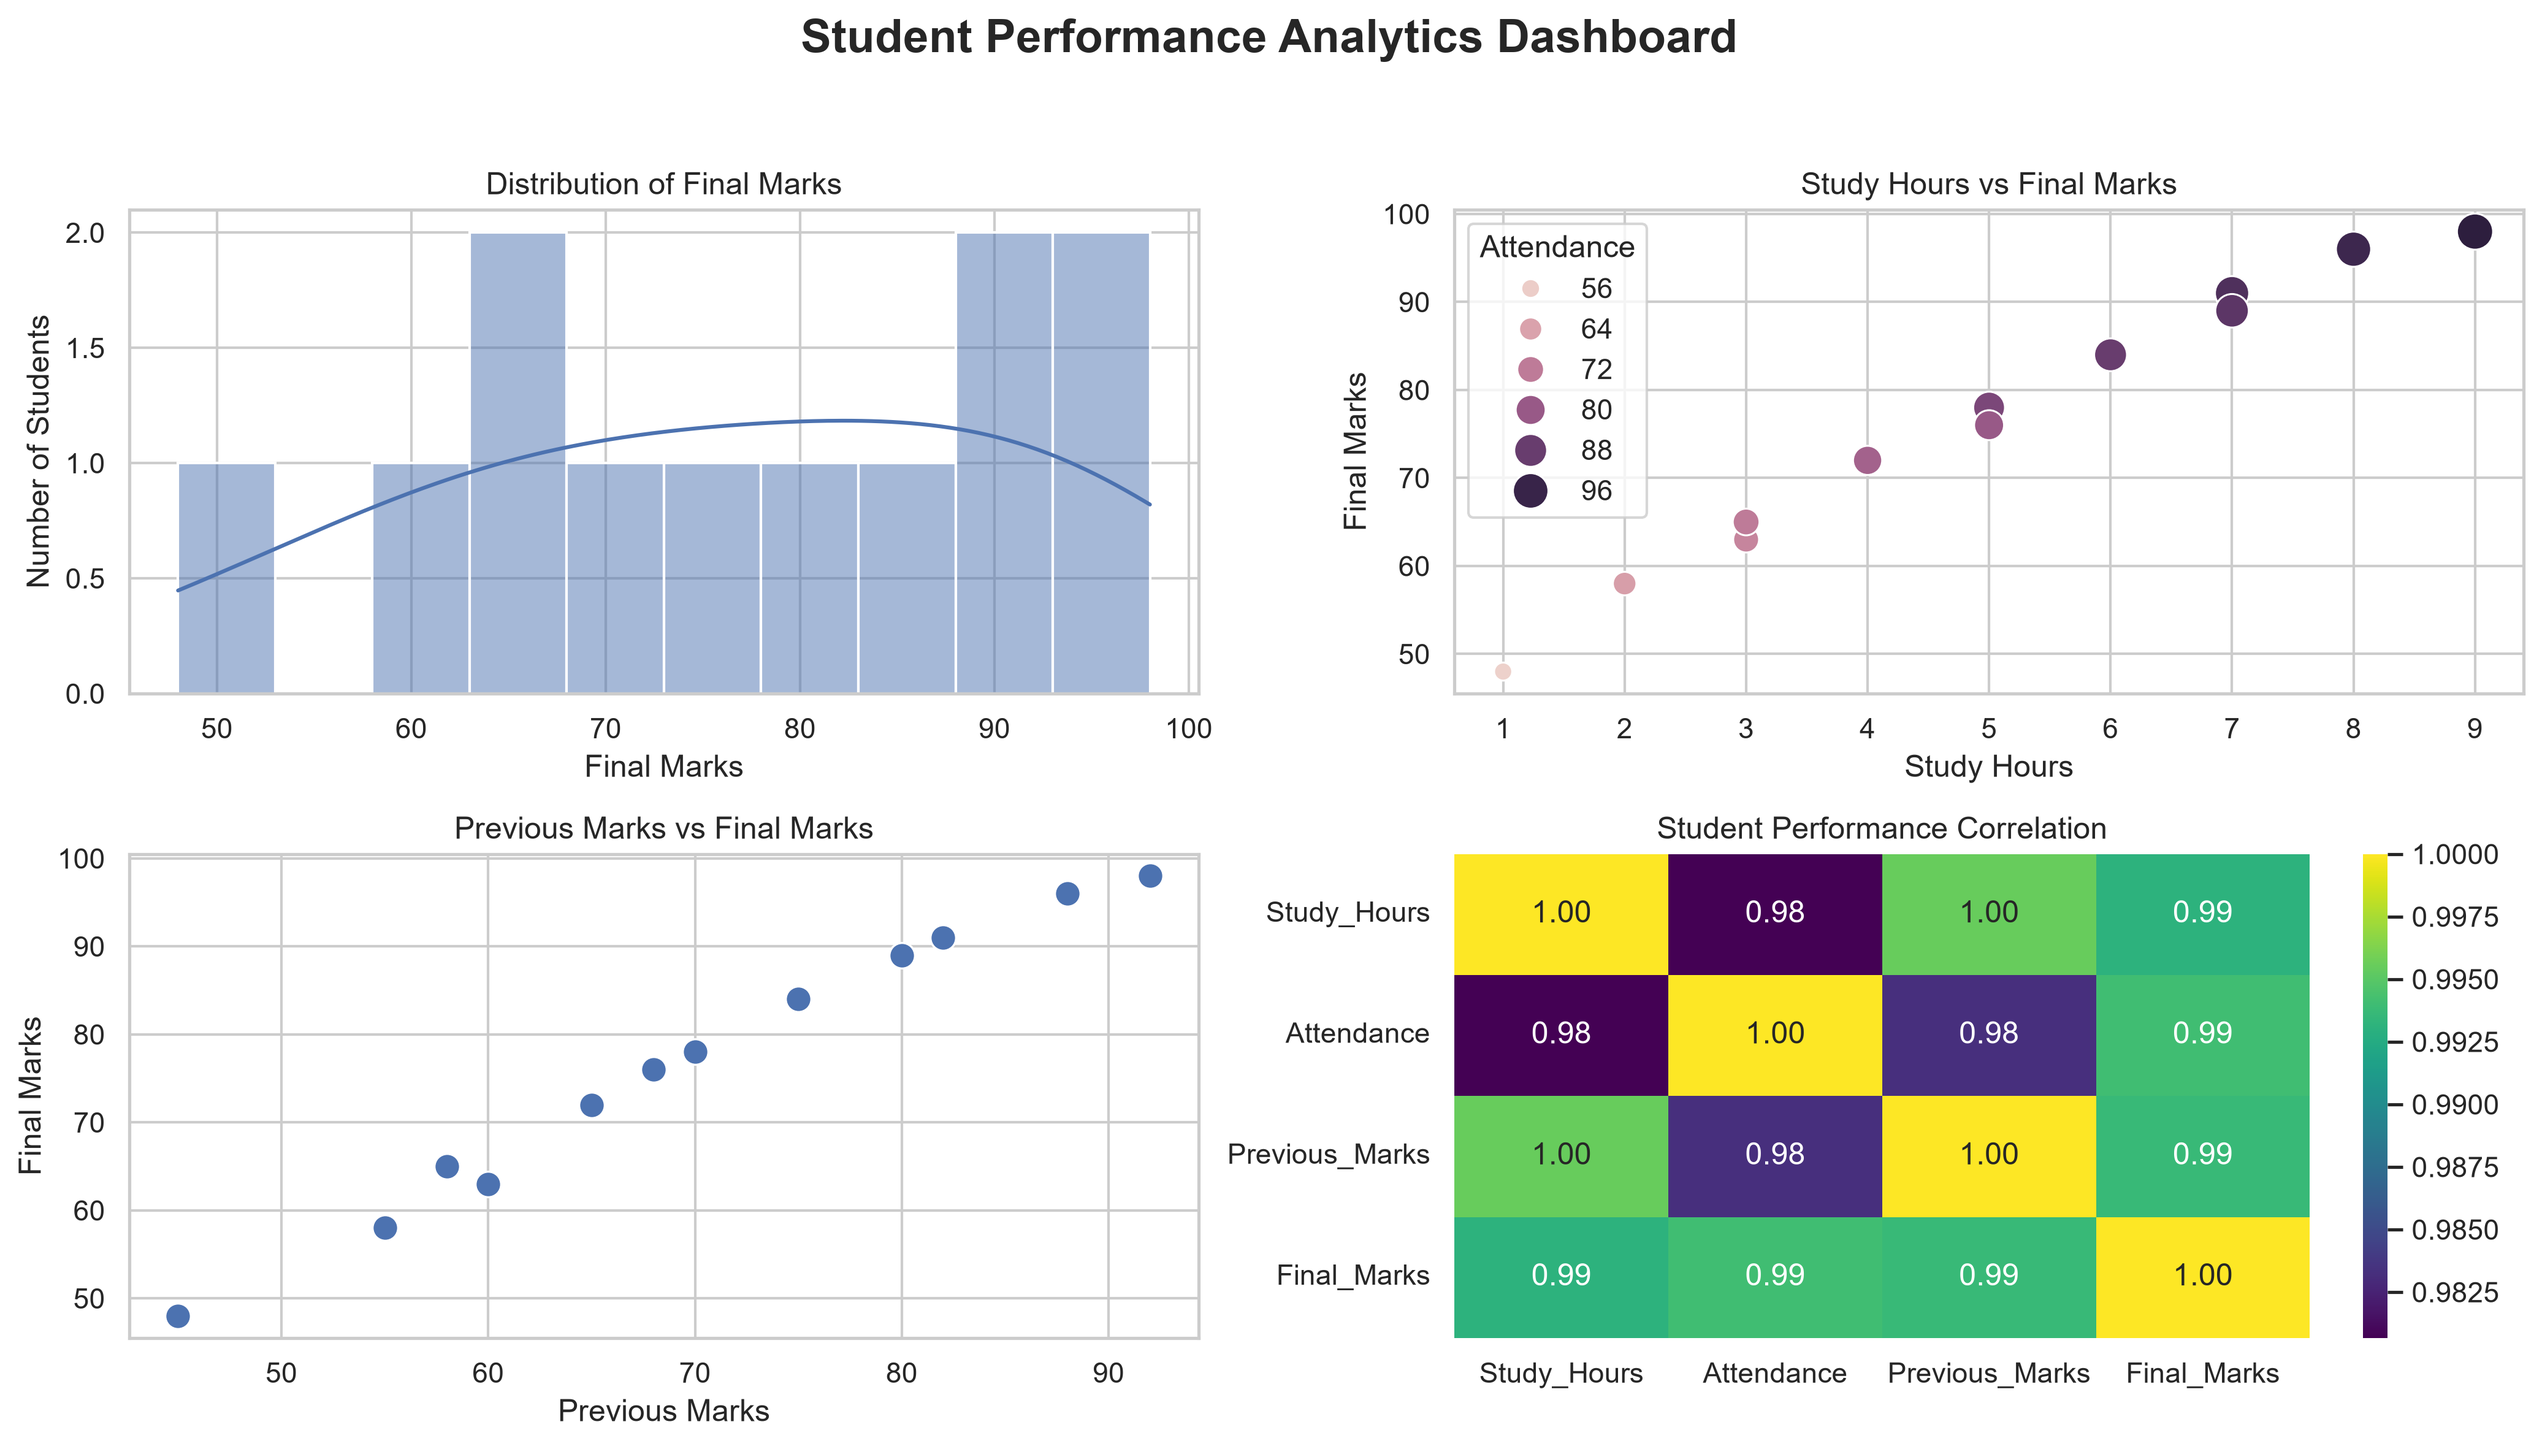
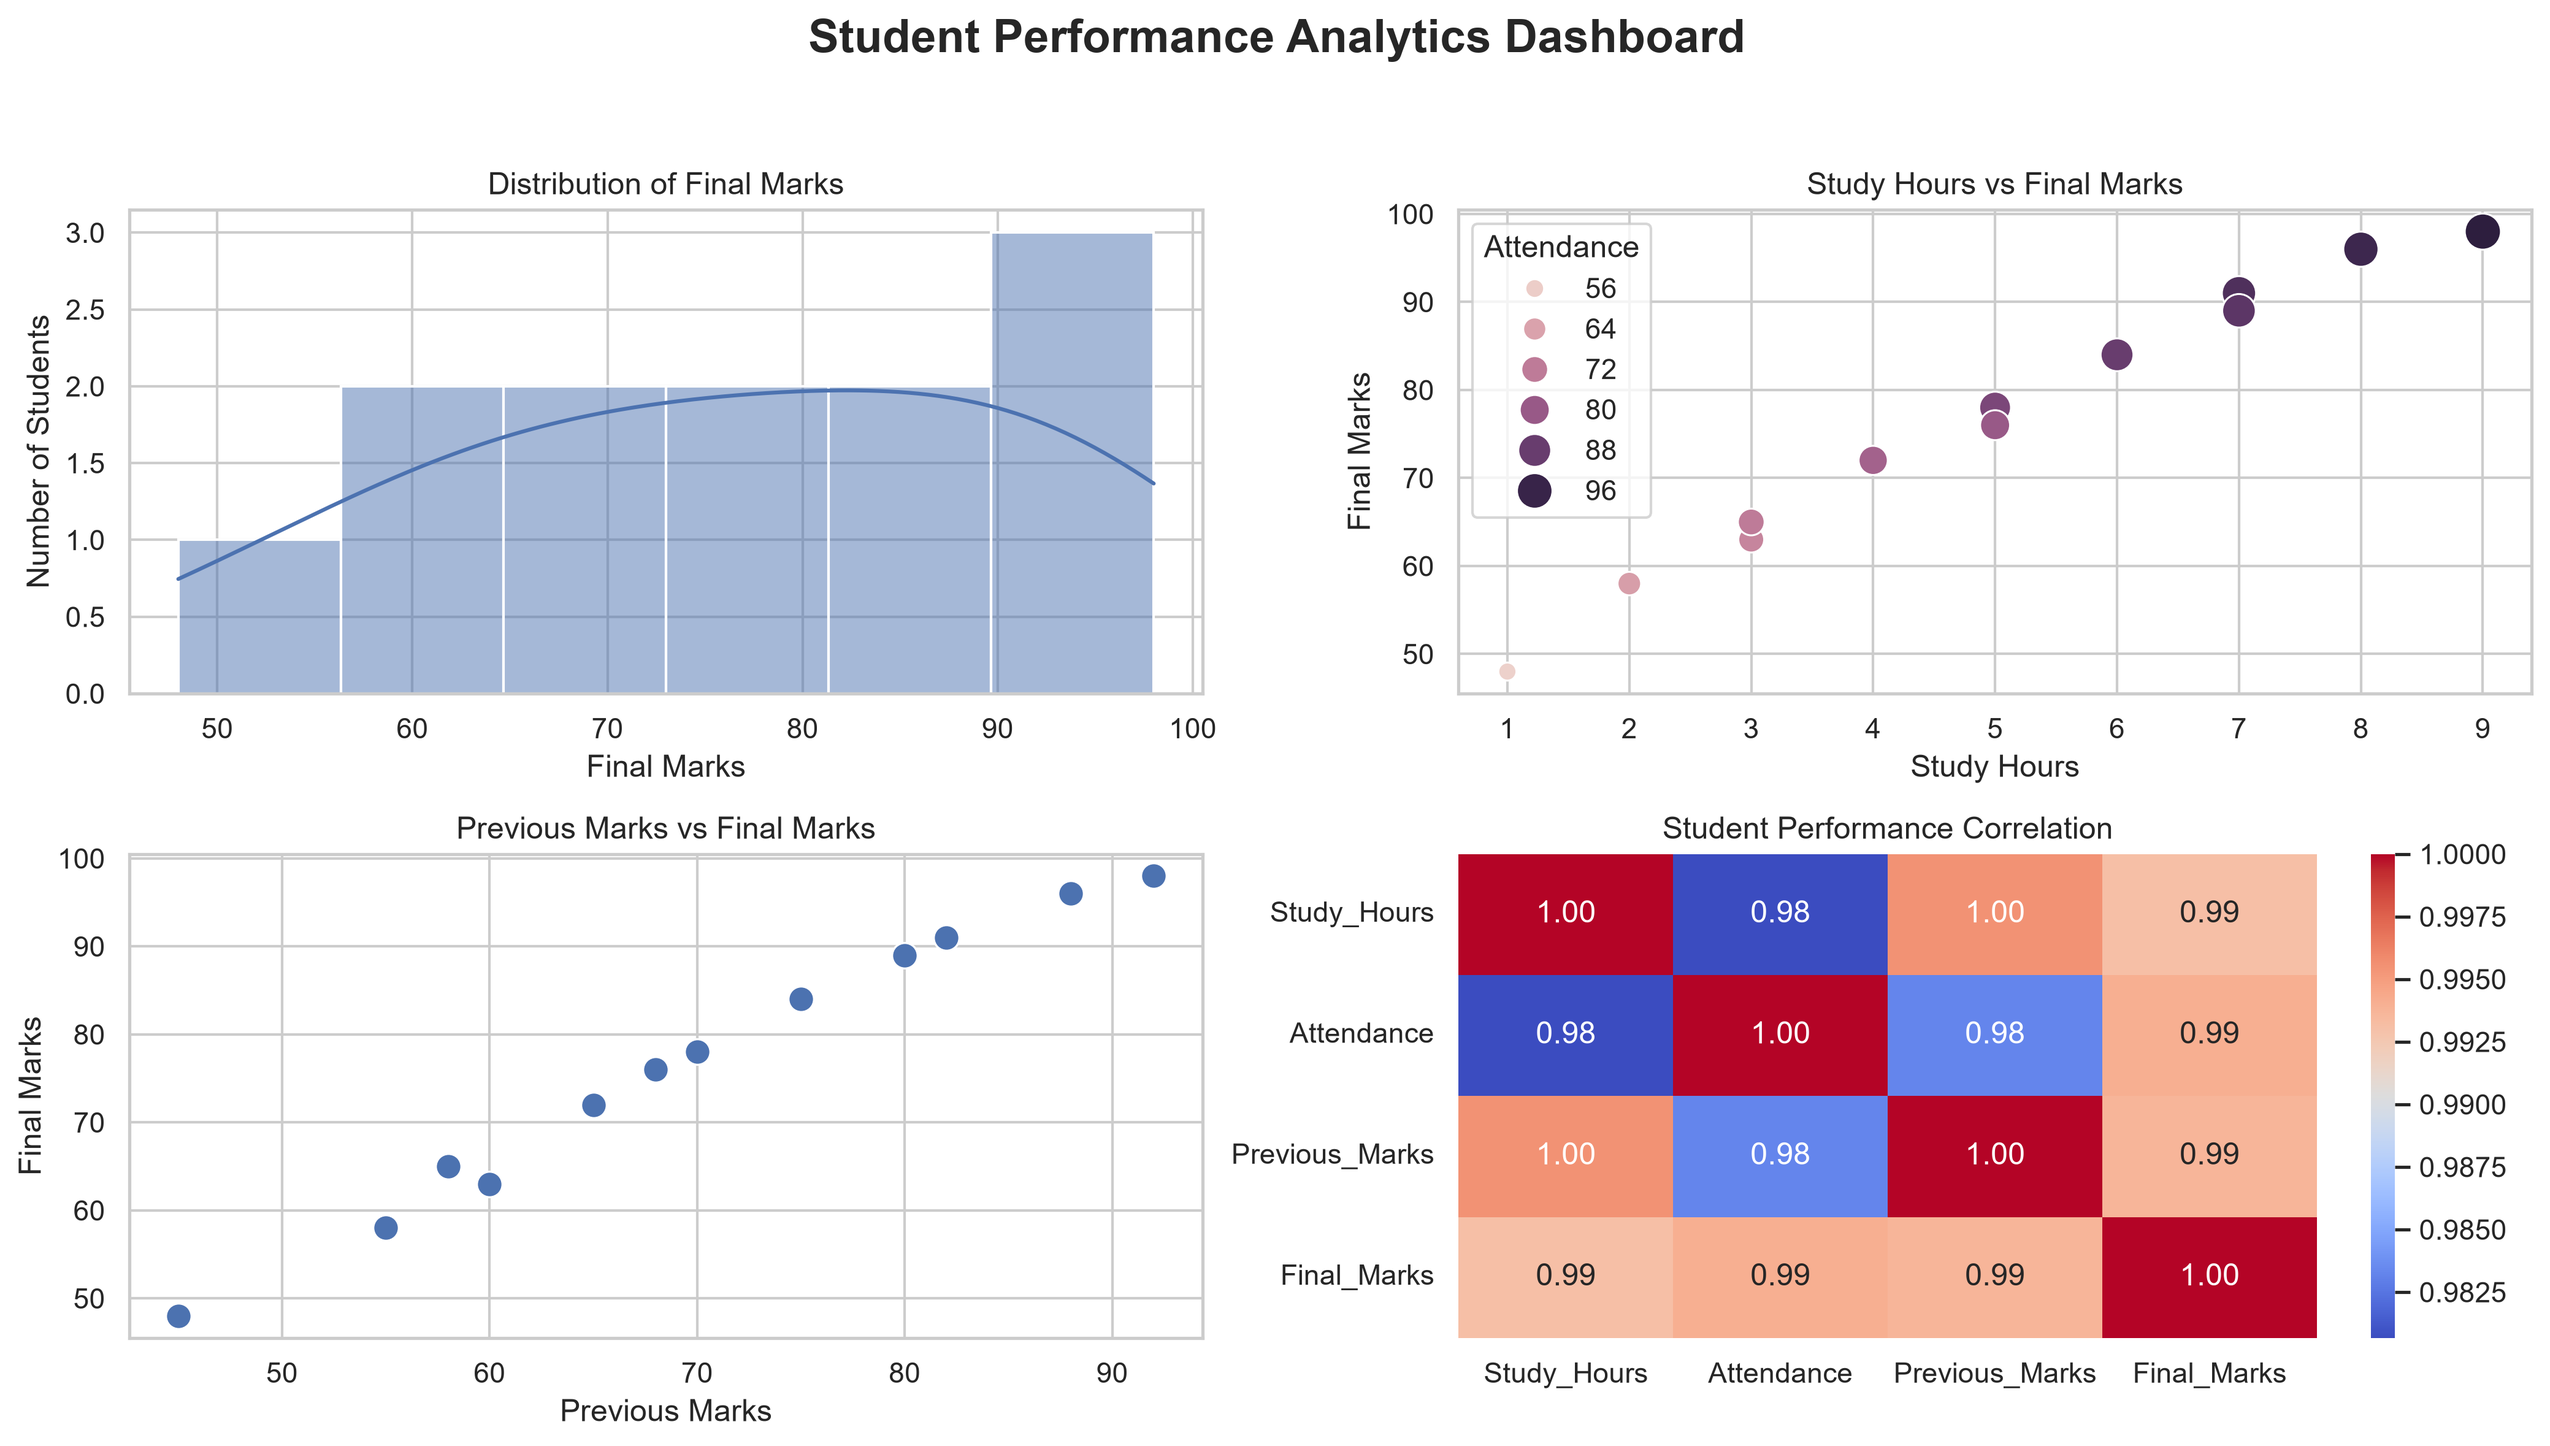
Data Cleaning and Preprocessing

diff --git a/src/preprocessing.py b/src/preprocessing.py
@@ -1,0 +1,110 @@
+# Data Cleaning and Preprocessing
+import pandas as pd
+from pathlib import  Path
+
+df = pd.read_csv("data/students_raw.csv")
+print("======== Original Dataset =========")
+print(df.head())
+print("\nOriginal dataset shape: ", df.shape)
+
+#Standardizing the columns names
+df.columns = df.columns.str.strip()
+# removing unnecessary spaces from Student_ID
+df["Student_ID"] = df["Student_ID"].astype("string").str.strip()
+df["Student_ID"] = df["Student_ID"].replace("", pd.NA)
+
+# converting numerical columns to numeric types
+numeric_columns = [
+    "Study_Hours",
+    "Attendance",
+    "Previous_Marks",
+    "Final_Marks"
+]
+
+for column in numeric_columns:
+    df[column] = pd.to_numeric(
+        df[column],
+        errors="coerce" #instead of stopping the program with an error, errors="coerce" converts it into a missing value (NaN).
+    )
+
+print("\n====== Missing Values ======")
+print(df.isnull().sum())
+
+df = df.dropna(subset=["Student_ID"]) # remove rows
+
+duplicate_count = df.duplicated().sum()
+print("\nDuplicate records found: ", duplicate_count)
+df = df.drop_duplicates() # remove exact duplicate records
+
+# remove duplicate studentId records
+duplicate_id_count = df["Student_ID"].duplicated().sum()
+print("Duplicate Student ID found: ", duplicate_id_count)
+df = df.drop_duplicates(subset=["Student_ID"], keep="first")
+
+#handling invalid study hours
+df.loc[
+    (df["Study_Hours"] < 0) |
+    (df["Study_Hours"] > 24),
+    "Study_Hours"
+] = pd.NA
+
+# invalid attendance
+
+df.loc[
+    (df["Attendance"]<0) |
+    (df["Attendance"] > 100),
+    "Attendance"
+] = pd.NA
+
+# invalid previous marks
+df.loc[
+    (df["Previous_Marks"] < 0) |
+    (df["Previous_Marks"] > 100),
+    "Previous_Marks"
+] = pd.NA
+# invalid final marks
+df.loc[
+    (df["Final_Marks"] < 0) |
+    (df["Final_Marks"] > 100),
+    "Final_Marks"
+] = pd.NA
+
+# filling missing predictor values with median
+predictor_columns = [
+    "Study_Hours",
+    "Attendance",
+    "Previous_Marks"
+]
+for column in predictor_columns:
+    median_value = df[column].median()
+    if pd.notna(median_value):
+        df[column] = df[column].fillna(median_value)
+
+# remove records without valid final marks
+df = df.dropna(subset=["Final_Marks"])
+
+# reset index
+df = df.reset_index(drop=True)
+
+print("\n=== cleaned dataset ====")
+print(df.head())
+print("\nCleaned dataset shape: ", df.shape)
+
+print("\n Remaining missing values: ")
+print(df.isnull().sum())
+
+Path("outputs").mkdir(exist_ok=True)
+df.to_csv(
+    "outputs/students_cleaned.csv",
+    index = False
+)
+
+print("\n========== PREPROCESSING COMPLETED ==========")
+
+print("Original records:", pd.read_csv("data/students_raw.csv").shape[0])
+
+print("Cleaned records:", len(df))
+
+print("Cleaned dataset saved successfully!")
+
+print("Location: outputs/students_cleaned.csv")

diff --git a/README.md b/README.md
@@ -1,0 +1,157 @@
+
+# Student Performance Analytics System
+
+A beginner-friendly Python data analytics and machine learning project that explores student performance using study hours, attendance, previous marks, and final marks.
+
+## Project Overview
+
+The goal of this project is to analyse student data, understand the factors associated with academic performance, clean and prepare the dataset, and later build a machine learning model to predict students' final marks.
+
+The project is being developed in **Python** using **VS Code**. Pandas is used for data manipulation, while Matplotlib and Seaborn are used for visualisation.
+
+## Work Completed So Far
+
+### Milestone 1 — Python Environment and Project Setup
+
+- Set up the project in Visual Studio Code.
+- Created and used a Python virtual environment (`venv`).
+- Installed the required Python libraries.
+- Created an organised project folder structure.
+
+### Milestone 2 — Data Analysis with Pandas
+
+- Loaded the student dataset from a CSV file using Pandas.
+- Inspected the dataset using `head()`, `tail()`, `shape`, and `columns`.
+- Generated descriptive statistics using `describe()`.
+- Calculated average values, including average final marks.
+- Counted students and calculated average study hours and attendance.
+- Identified the highest final mark.
+- Filtered students who scored 80 or above.
+
+### Milestone 3 — Data Visualisation
+
+Created a student performance dashboard containing:
+
+- A histogram showing the distribution of final marks.
+- A scatter plot showing the relationship between study hours and final marks.
+- A scatter plot comparing previous marks with final marks.
+- A correlation heatmap for the numerical columns.
+
+The dashboard is saved in the `outputs` folder.
+
+### Milestone 4 — Data Cleaning and Preprocessing
+
+- Created a separate practice dataset, `students_raw.csv`, containing intentional data-quality issues.
+- Removed extra spaces from column names and student IDs.
+- Converted numeric columns to numeric data types.
+- Identified missing values.
+- Detected and removed duplicate records.
+- Checked for duplicate student IDs.
+- Identified invalid values, such as negative marks, study hours above 24, attendance above 100, and marks above 100.
+- Replaced invalid values with missing values.
+- Filled missing predictor values using the median.
+- Removed rows where the target value (`Final_Marks`) was missing.
+- Reset the DataFrame index after cleaning.
+- Exported the cleaned dataset to `outputs/students_cleaned.csv`.
+
+**Note:** The cleaning rules assume study hours are between 0 and 24, and attendance and marks are percentages between 0 and 100. These limits should be adjusted if the dataset uses different definitions. The practice dataset is kept separate so the original `students.csv` remains unchanged.
+
+## Project Structure
+
+```text
+Student-Performance-Analytics/
+│
+├── data/
+│   ├── students.csv
+│   └── students_raw.csv
+│
+├── src/
+│   ├── analysis.py
+│   ├── visualization.py
+│   └── preprocessing.py
+│
+├── outputs/
+│   ├── student_performance_dashboard.png
+│   └── students_cleaned.csv
+│
+├── venv/
+└── README.md
+```
+
+The `venv` folder is your local virtual environment. It is normally not committed to GitHub; recreate it on another computer and reinstall the dependencies instead.
+
+## Technologies and Libraries
+
+- **Python** — main programming language.
+- **Pandas** — loading, inspecting, analysing, and cleaning tabular data.
+- **Matplotlib** — creating charts.
+- **Seaborn** — creating statistical visualisations.
+- **VS Code** — development environment.
+
+## How to Run the Project
+
+Run these commands from the project root directory.
+
+### 1. Activate the virtual environment (Windows PowerShell)
+
+```powershell
+.\venv\Scripts\Activate.ps1
+```
+
+If activation is blocked by PowerShell, you can run the virtual environment's Python directly:
+
+```powershell
+.\venv\Scripts\python.exe --version
+```
+
+### 2. Run the analysis
+
+```powershell
+python src/analysis.py
+```
+
+### 3. Generate the visualisation dashboard
+
+```powershell
+python src/visualization.py
+```
+
+### 4. Run data cleaning and preprocessing
+
+```powershell
+python src/preprocessing.py
+```
+
+The preprocessing script reads `data/students_raw.csv` and saves the cleaned data to `outputs/students_cleaned.csv`.
+
+If your scripts use a different input filename, adjust the relevant `pd.read_csv(...)` path accordingly.
+
+## Current Progress
+
+**Completed:** Milestones 1, 2, 3, and 4.
+
+**Next:** Milestone 5 — Exploratory Data Analysis (EDA).
+
+## Upcoming Milestones
+
+1. Exploratory Data Analysis (EDA).
+2. Introduction to Machine Learning.
+3. Build the first machine learning model using Linear Regression.
+4. Evaluate the model and make predictions.
+5. Integrate the complete project.
+
+## Learning Outcomes So Far
+
+Through the completed milestones, this project has provided practical experience with:
+
+- Python project organisation and virtual environments.
+- Reading and analysing CSV datasets with Pandas.
+- Selecting, filtering, and summarising data.
+- Creating charts to explore student performance.
+- Detecting missing, duplicate, invalid, and out-of-range data.
+- Applying basic data-cleaning and preprocessing techniques.
+- Saving analysis outputs and cleaned datasets.
+
+---
+
+*This is an educational project developed incrementally while learning Python, data analysis, and machine learning.*
